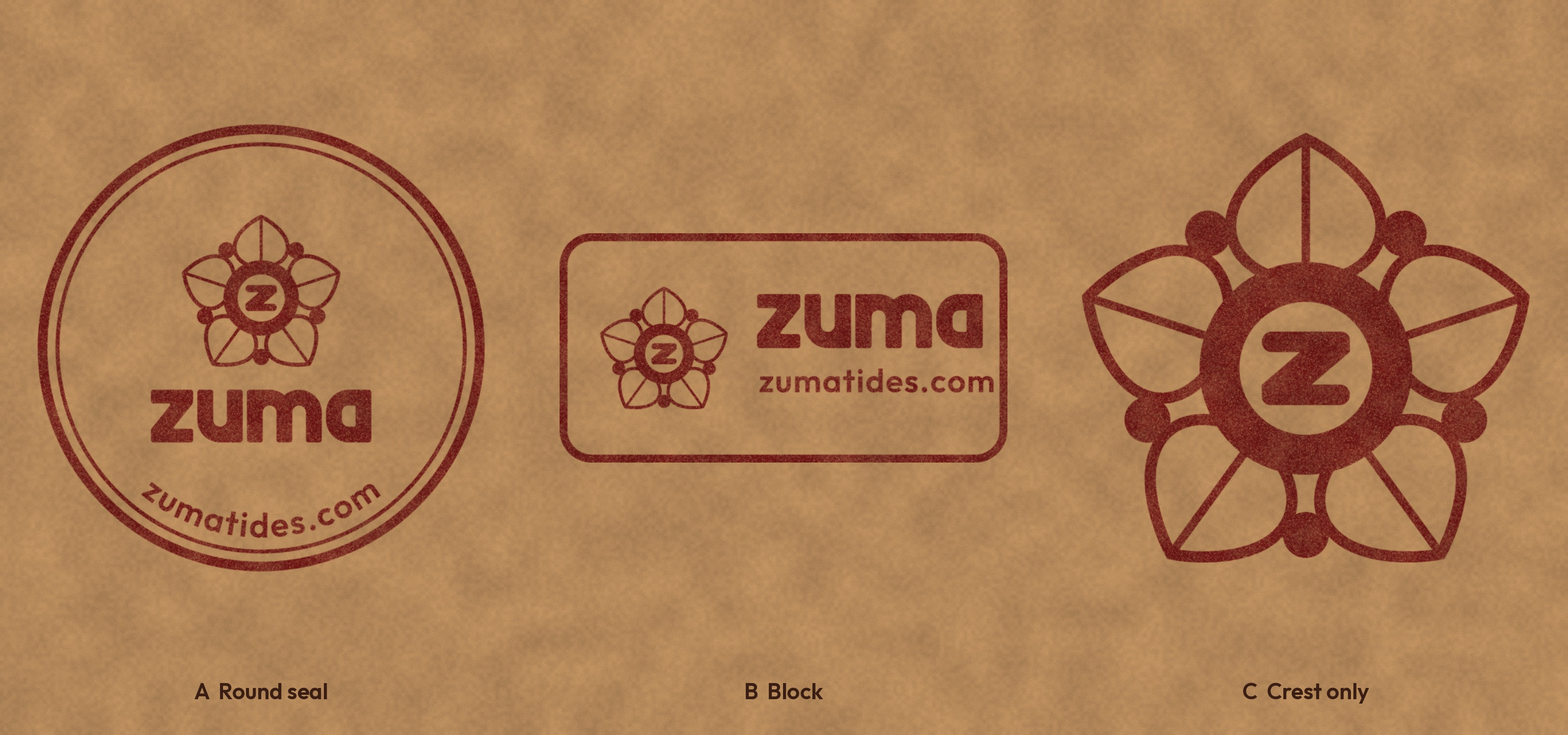
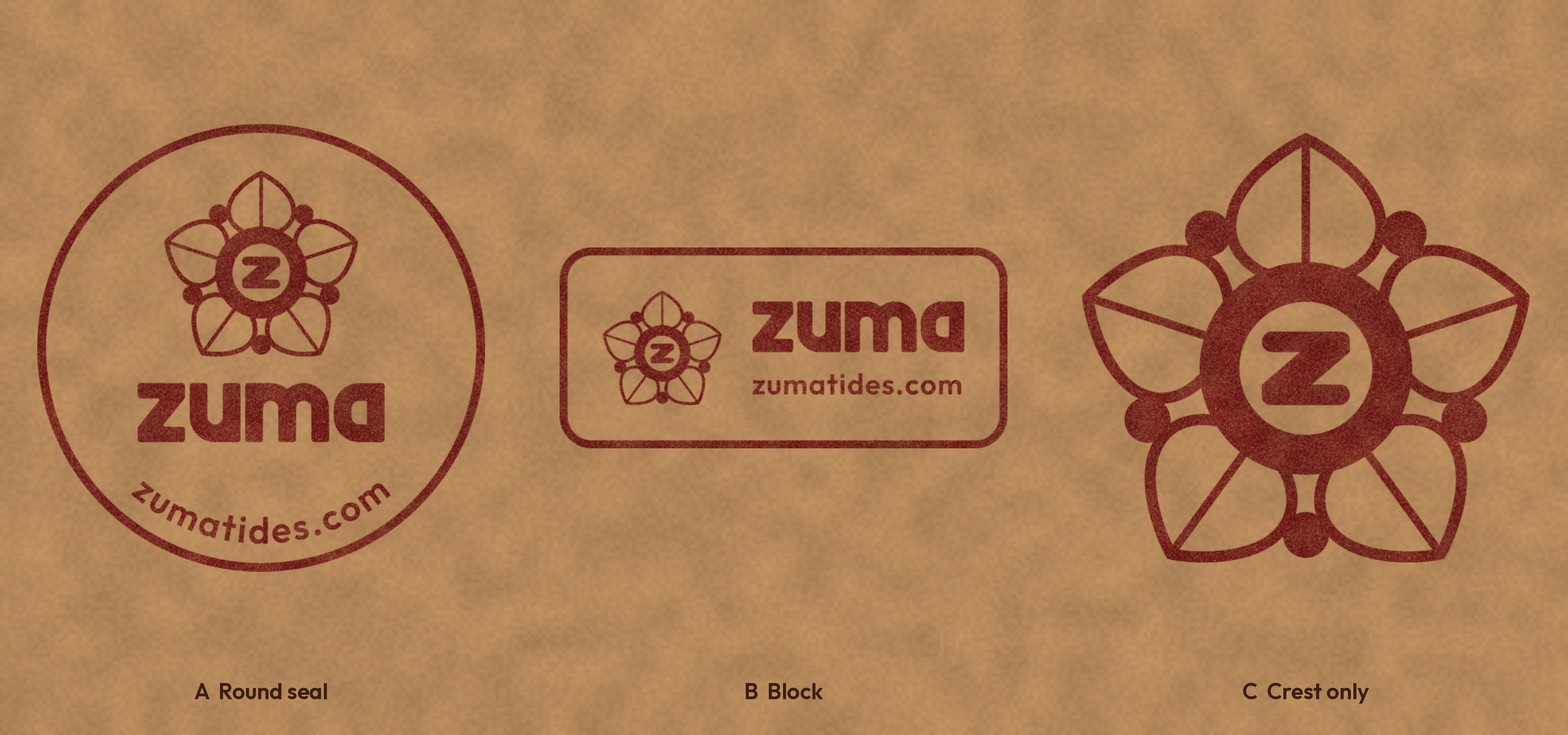
Mailer stamp: respace A and B by measurement (equal gaps, single ring on A, equal margins on B)
Claude-Session: https://claude.ai/code/session_01WtTNMTJadupUSrfLNmJCKv

diff --git a/zuma-content/packaging/mailer-stamp/source/build.py b/zuma-content/packaging/mailer-stamp/source/build.py
@@ -54,23 +54,56 @@ def svg(w, h, body, name):
 def crest(x, y, width): s = width / CW; return f'<path fill="#000" fill-rule="evenodd" transform="translate({x:.3f} {y:.3f}) scale({s:.5f})" d="{CD}"/>'
 def word(x, y, width): s = width / WW; return f'<path fill="#000" fill-rule="evenodd" transform="translate({x:.3f} {y:.3f}) scale({s:.5f})" d="{WD}"/>'
 
-# A: round seal, 50.8 mm. Outer ring 1.1 mm, a hairline-free inner ring 0.45 mm (anything under 0.3 mm fills in on rubber).
-c = D / 2; cw = 18.0; chh = CH * cw / CW; ww = 25.0; wh = WH * ww / WW; gap = 2.6
-top = c - (chh + gap + wh) / 2 - 2.2
+# A: round seal, 50.8 mm, laid out by measured clearances (not by eye):
+#   one 1.0 mm ring; zumatides.com round the bottom with its baseline 2.2 mm inside the ring;
+#   the crest + wordmark group sits with the SAME gap above it (to the ring) and below it (to the top of the address's lowercase).
+c = D / 2; RING = 1.0; Ri = c - RING                     # inside edge of the ring
+US = 4.2; XH = 0.483 * US; RB = Ri - 2.2                 # address size, x-height, baseline radius
+u_top = c + RB - XH                                      # top of the address's lowercase, at the bottom centre
+cw = 22.0; chh = CH * cw / CW; ww = 28.0; wh = WH * ww / WW; gap = 3.0
+hg = chh + gap + wh
+TRK = 0.07
+def url_top_under_word(word_bottom):
+    """smallest vertical gap from the wordmark's bottom edge to any address letter under it (the arc rises at its ends)"""
+    advs = [adv(ch, US) + TRK * US for ch in 'zumatides.com']; tot = sum(advs) - TRK * US; x = 0; best = 1e9
+    for ch, a in zip('zumatides.com', advs):
+        al = -tot / (2 * RB) + (x + (a - TRK * US) / 2) / RB; x += a; w = adv(ch, US)
+        for dx in (-w / 2, w / 2):                       # the two top corners of the letter's x-height box
+            for dy in (0, XH):
+                # glyph box point (dx right, dy up toward the centre), turned by -al like the letter itself
+                px = c + RB * math.sin(al) + math.cos(al) * dx - math.sin(al) * dy
+                py = c + RB * math.cos(al) - math.sin(al) * dx - math.cos(al) * dy
+                if abs(px - c) <= ww / 2 + 1.5: best = min(best, py - word_bottom)
+    return best
+# the gap under the wordmark falls one for one as the group moves down, so: top - RING == clearance(top)
+K = url_top_under_word(hg)                               # clearance with the group's top at y = 0
+top = (K + RING) / 2
+print(f'A: ring inside edge {Ri:.2f} mm; gap ring->crest {top - RING:.2f} mm; tightest gap wordmark->address {url_top_under_word(top + hg):.2f} mm; '
+      f'ring->address baseline {Ri - RB:.2f} mm; wordmark corner to ring {Ri - math.hypot(ww / 2, top + hg - c):.2f} mm')
 A = '\n'.join([
-    f'<circle cx="{c}" cy="{c}" r="{c - 0.55 - 0.05:.3f}" fill="none" stroke="#000" stroke-width="1.1"/>',
-    f'<circle cx="{c}" cy="{c}" r="{c - 2.3:.3f}" fill="none" stroke="#000" stroke-width="0.45"/>',
+    f'<circle cx="{c}" cy="{c}" r="{c - RING / 2:.3f}" fill="none" stroke="#000" stroke-width="{RING}"/>',
     crest(c - cw / 2, top, cw), word(c - ww / 2, top + chh + gap, ww),
-    f'<path fill="#000" d="{arc_bottom("zumatides.com", 3.9, c - 3.9, c, c)}"/>'])
+    f'<path fill="#000" d="{arc_bottom("zumatides.com", US, RB, c, c, 0.07)}"/>'])
 svg(D, D, A, 'A-round-seal')
 
 # B: block, 50.8 x 26 mm. Rounded frame 0.9 mm; crest left; wordmark top right; zumatides.com under it.
-H = 26.0; cw = 14.5; chh = CH * cw / CW; ww = 25.6; wh = WH * ww / WW
+# Laid out by measurement: the crest + text block is centred in the frame, so the left and right margins are equal,
+# and the text block (wordmark over the address) is centred vertically, like the crest.
+FR = 0.9; MG = 4.0                                     # frame weight, and the same 4 mm margin on all four sides
+cw = 13.5; chh = CH * cw / CW; ww = 24.0; wh = WH * ww / WW; g = 3.5
+H = round(chh + 2 * MG + 2 * FR, 2)                      # the crest is the tallest thing, so it sets the height
+US_B = 3.3; TRK_B = 0.03; uw = sum(adv(ch, US_B) + TRK_B * US_B for ch in 'zumatides.com') - TRK_B * US_B
+lsb = 24 / 1000 * US_B                                   # the address's first letter side bearing, so its ink lines up with the wordmark
+tw = max(ww, uw - lsb); M = (D - 2 * FR - (cw + g + tw)) / 2
+asc = 0.723 * US_B; g2 = 2.4; th = wh + g2 + asc; ty = (H - th) / 2
+x_c = FR + M; x_t = x_c + cw + g
+print(f'B: {D} x {H} mm; margin left = right {M:.2f} mm; crest top = bottom {(H - chh) / 2 - FR:.2f} mm; '
+      f'text block {tw:.2f} x {th:.2f} mm, centred (top = bottom {ty - FR:.2f} mm)')
 B = '\n'.join([
-    f'<rect x="0.45" y="0.45" width="{D - 0.9}" height="{H - 0.9}" rx="3.2" fill="none" stroke="#000" stroke-width="0.9"/>',
-    crest(4.6, (H - chh) / 2, cw),
-    word(22.4, 6.9, ww),
-    f'<path fill="#000" d="{text_line("zumatides.com", 3.7, 22.6, 6.9 + wh + 5.0, 0.03)}"/>'])
+    f'<rect x="{FR / 2}" y="{FR / 2}" width="{D - FR}" height="{H - FR}" rx="3.2" fill="none" stroke="#000" stroke-width="{FR}"/>',
+    crest(x_c, (H - chh) / 2, cw),
+    word(x_t, ty, ww),
+    f'<path fill="#000" d="{text_line("zumatides.com", US_B, x_t - lsb, ty + wh + g2 + asc, TRK_B)}"/>'])
 svg(D, H, B, 'B-block')
 
 # C: crest only, 50.8 mm wide.

diff --git a/zuma-content/packaging/mailer-stamp/README.md b/zuma-content/packaging/mailer-stamp/README.md
@@ -3,10 +3,12 @@
 For the brown kraft bubble mailers. One ink: ZUMA Oxblood #6E1C2A. 2 in (50.8 mm). It never says "peptides" (same rule as mailer B).
 
 - `stamps-on-kraft.jpg`: all three inked on kraft at the same scale.
-- `vector/zuma-stamp-A-round-seal.svg`: 50.8 mm round. The crest and the ZUMA wordmark, zumatides.com round the bottom, a 1.1 mm ring and a 0.45 mm inner ring.
-- `vector/zuma-stamp-B-block.svg`: 50.8 x 26 mm. The crest beside the wordmark, zumatides.com under it, a rounded 0.9 mm frame.
+- `vector/zuma-stamp-A-round-seal.svg`: 50.8 mm round, one 1.0 mm ring. The crest and the ZUMA wordmark, zumatides.com round the bottom.
+  Spacing is measured, not set by eye: 4.29 mm from the ring to the crest equals the tightest gap from ZUMA to the address (at the arc's ends).
+- `vector/zuma-stamp-B-block.svg`: 50.8 x 22.75 mm. The crest beside the wordmark, zumatides.com under it, a rounded 0.9 mm frame.
+  Spacing: 4 mm margin on all four sides, and the text block is centred vertically.
 - `vector/zuma-stamp-C-crest.svg`: the crest alone, 50.8 mm wide.
 
 The SVGs are the stamp art at 1:1 in mm. Ink is drawn in black and all type is outlines, so the maker needs no fonts. Send them as drawn: the stamp maker mirrors the rubber.
-Rubber holds lines down to about 0.3 mm. The crest's petal lines are about 0.29 mm in A and 0.24 mm in B, so ask the maker to proof B's crest, or make it slightly bolder.
+Rubber holds lines down to about 0.3 mm. The crest's petal lines are about 0.35 mm in A and 0.22 mm in B, so ask the maker to proof B's crest, or make it slightly bolder.
 Rebuild: `python source/build.py vector source/Outfit-600.ttf`, render the SVGs at 40 px/mm, then `python source/mock.py <renders> stamps-on-kraft.jpg`.
